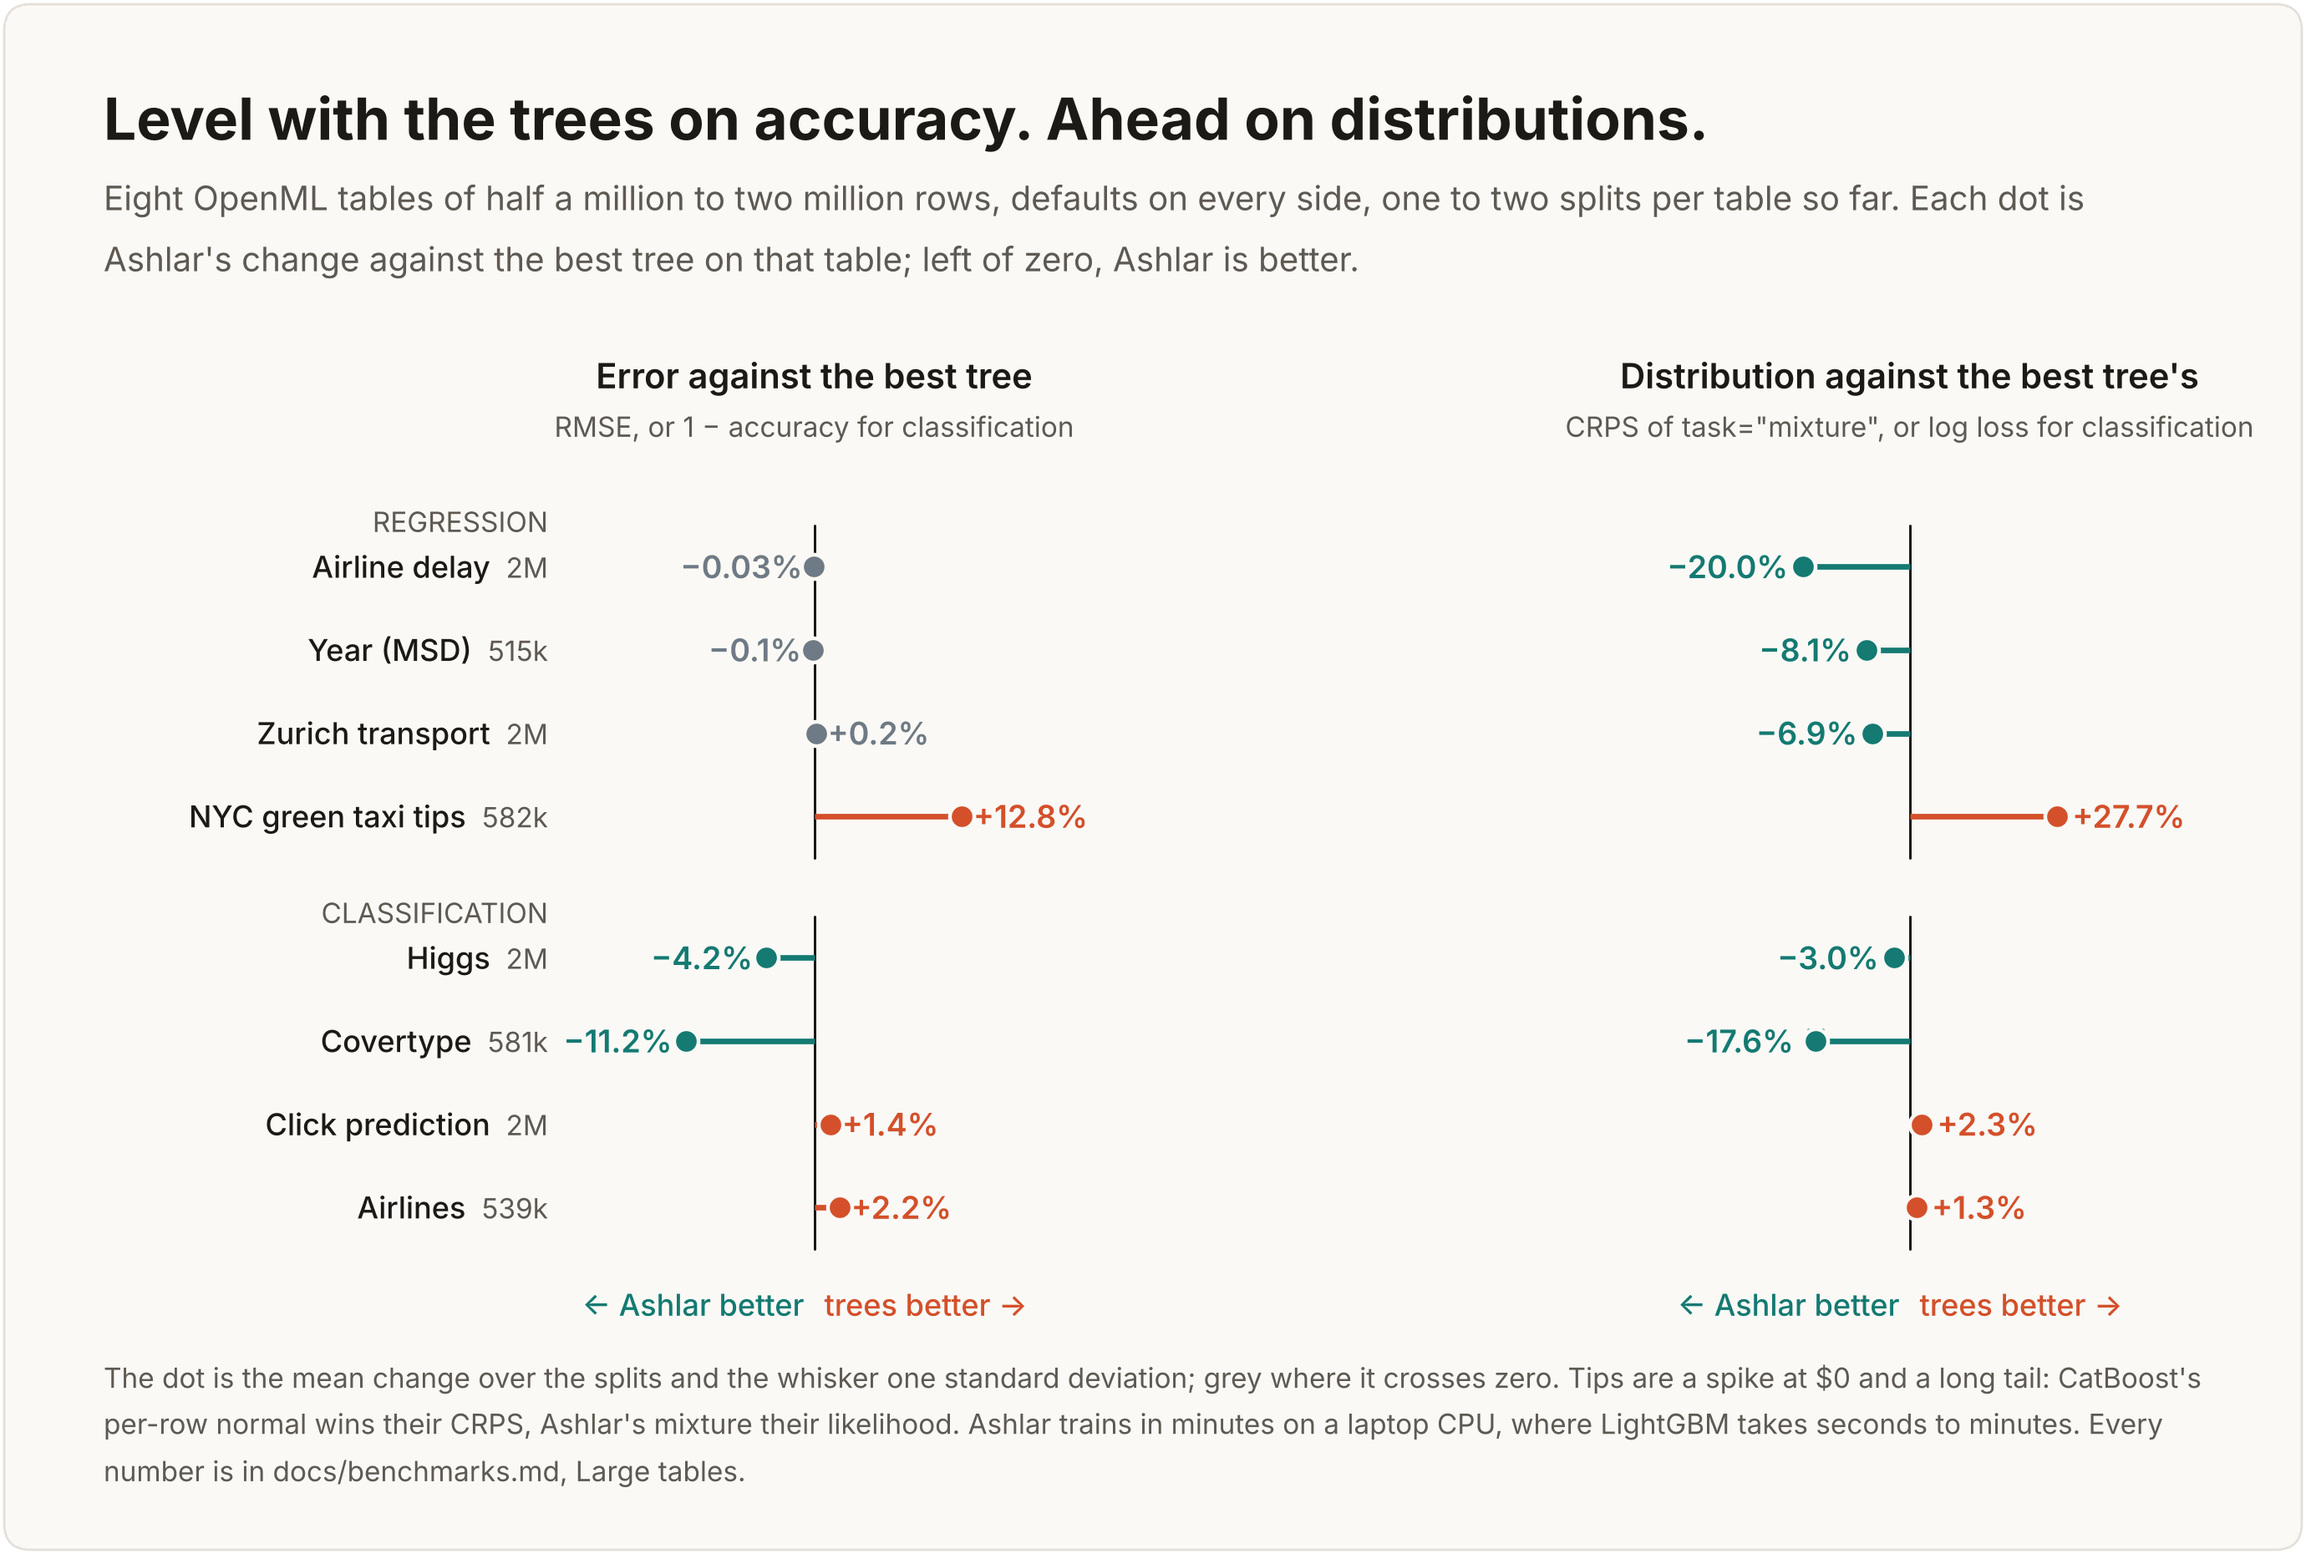
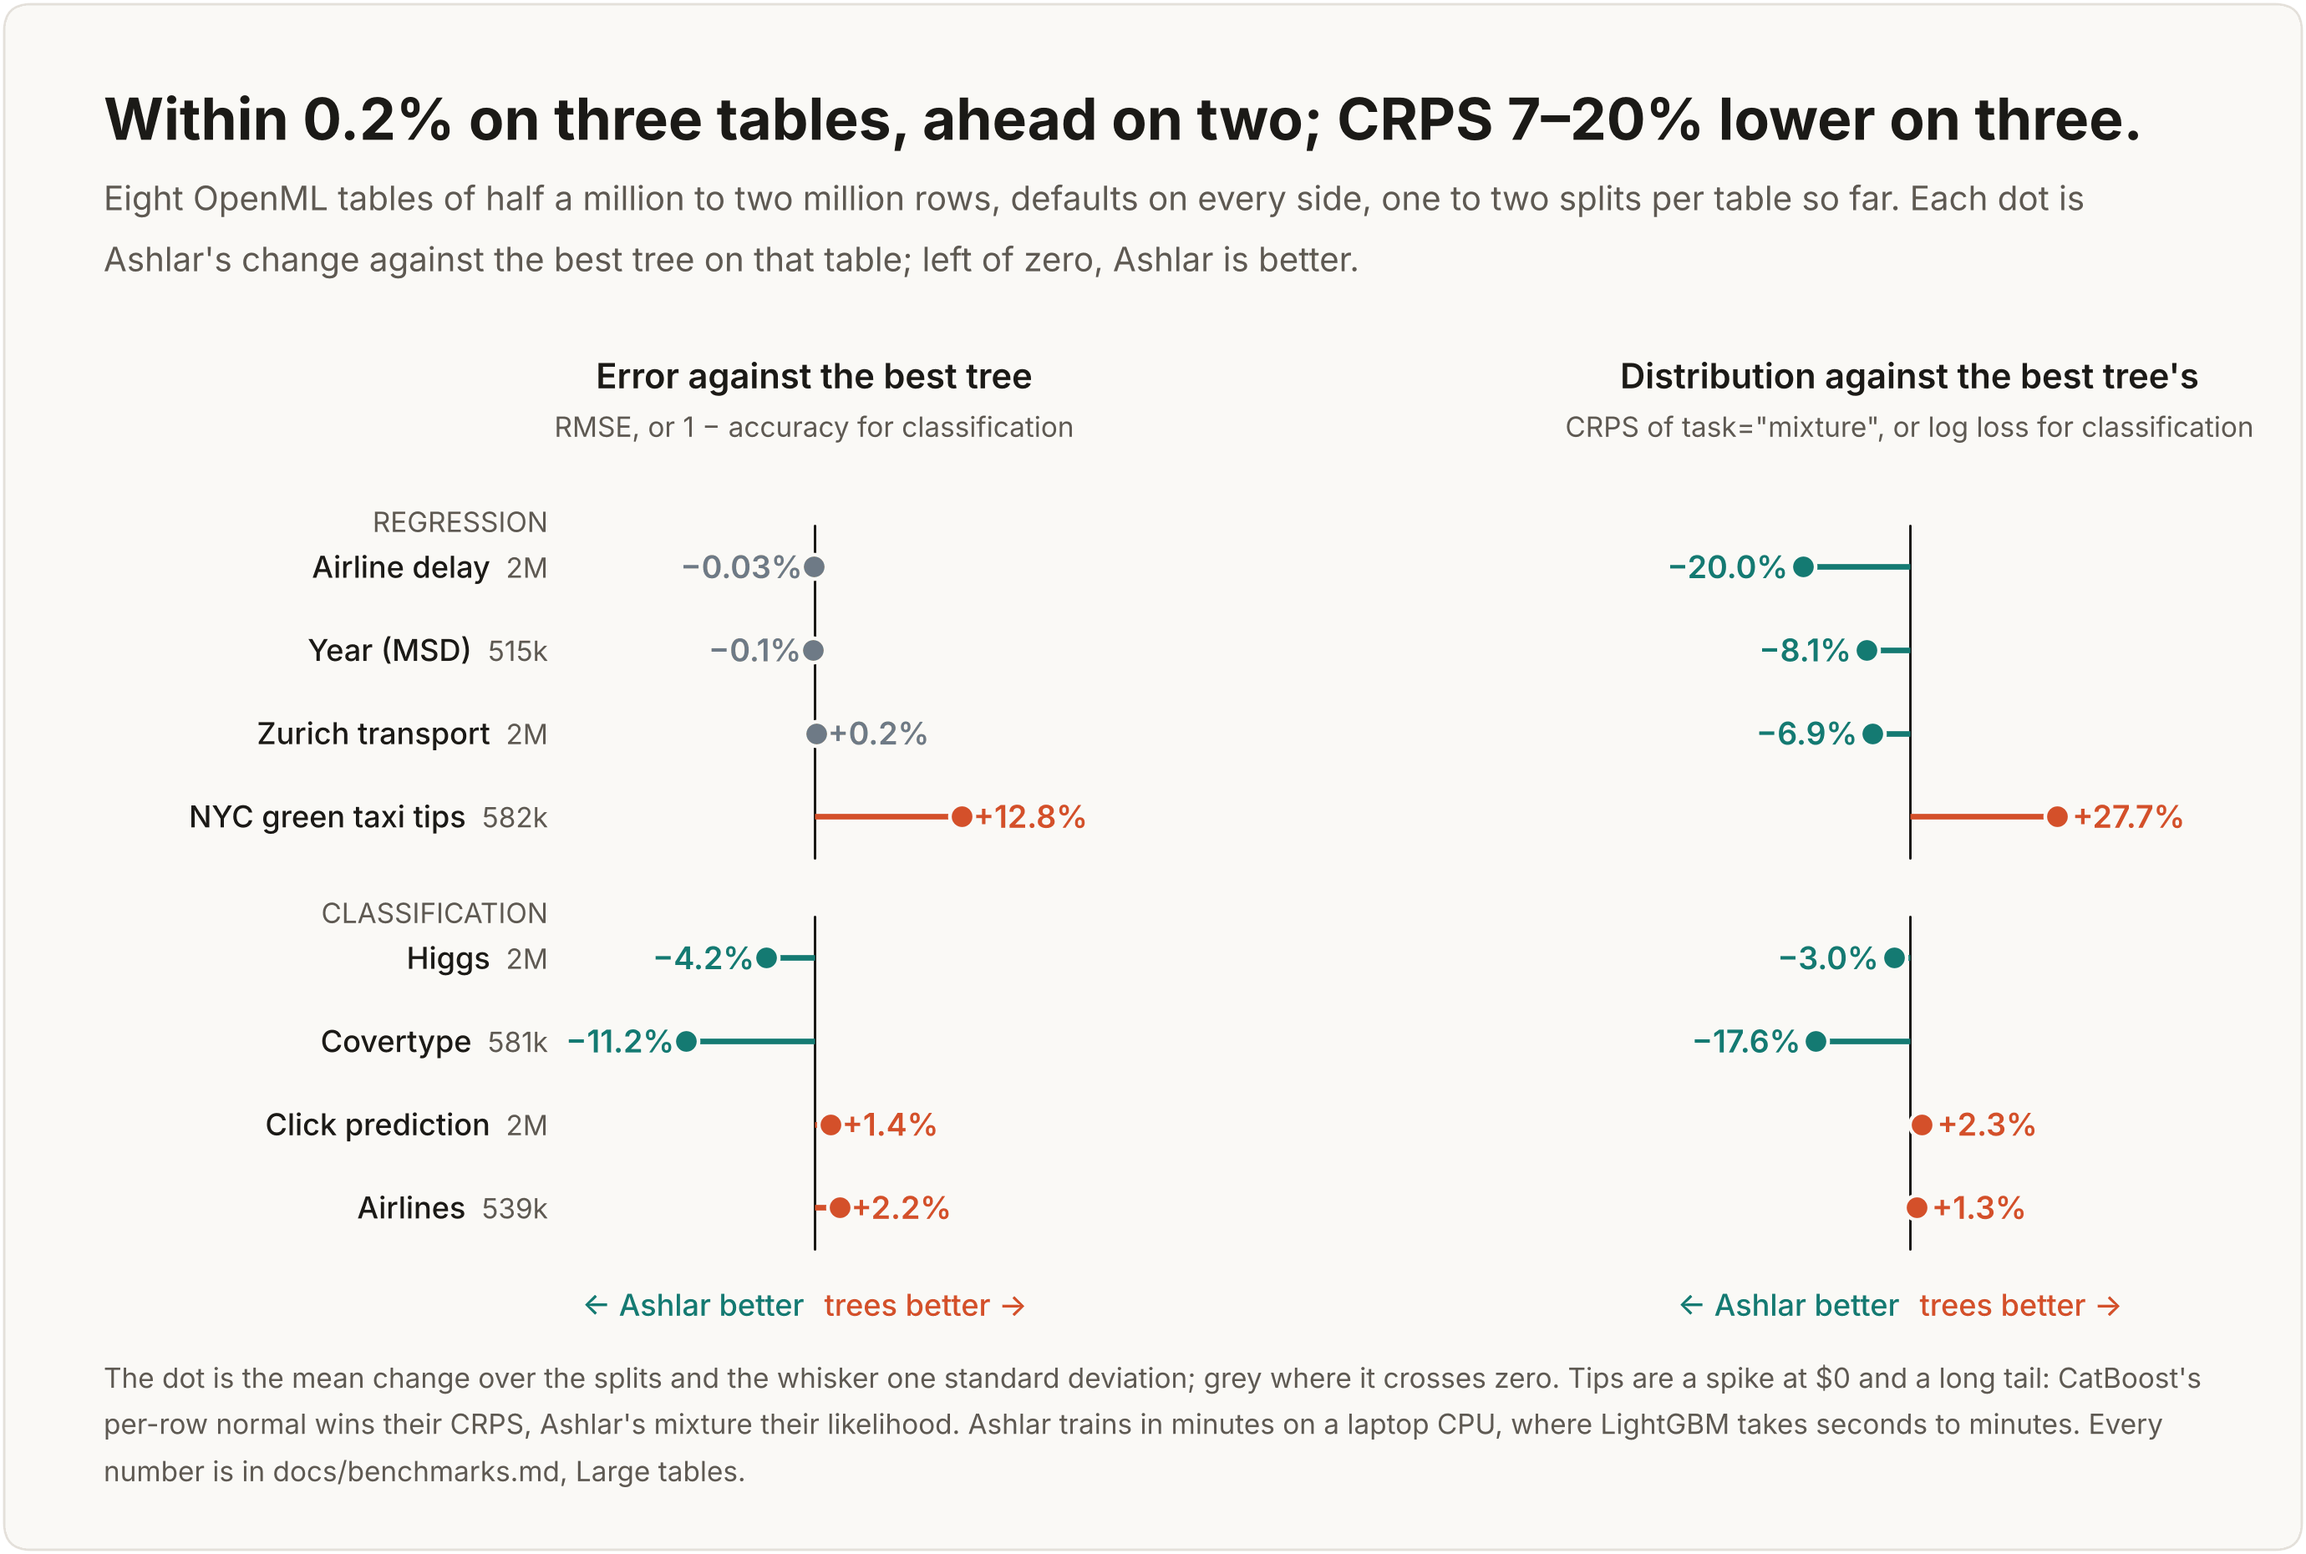
LightGBMLSS imports torch before LightGBM; the scoreboard's title says the numbers
On macOS torch and LightGBM each bring a libomp; with both loaded, LightGBMLSS
segfaulted on the Mac the first time torch ran a multi-threaded op inside
LightGBM's objective. Importing torch first lets LightGBM reuse torch's
runtime. The install line in the comment now lists the tested pins.

The scoreboard's card title is computed from the results, so it no longer
repeats the README heading above it, and a whisker shorter than the dot's
radius is left out instead of showing only its caps.

Claude-Session: https://claude.ai/code/session_01Ut1RAi6KqssJKqes3JJ4ZU

Changed region(s): [[0.0312, 0.0624, 0.9348, 0.0935], [0.7478, 0.6548, 0.779, 0.686], [0.2493, 0.6548, 0.2804, 0.686]]

diff --git a/examples/readme/scoreboard.py b/examples/readme/scoreboard.py
@@ -45,6 +45,7 @@ GROUPS = (  # (group, ((table, name on the figure, rows), ...)), regression firs
                         ("click", "Click prediction", "2M"), ("airlines", "Airlines", "539k"))),
 )
 TIE = 0.5  # percent: with one split, a smaller change is drawn as a tie
+DOT_RADIUS = (110 ** 0.5 / 2 + 1.6) / 72  # inches: the dot (s=110) and its edge
 
 
 def load(path: Path = RESULTS) -> list[dict]:
@@ -119,15 +120,21 @@ def _cell(ax, y, item, pad):
     lo, hi = mean - sd, mean + sd
     color = k.SLATE if tied(item) else k.TEAL if mean < 0 else k.CLAY
     ax.plot([0, mean], [y, y], color=color, lw=2.4, solid_capstyle="butt", zorder=3)
-    if len(item["seeds"]) > 1 and sd > 0:
+    # A whisker shorter than the dot's radius would only show its caps at the dot's edge: leave it out.
+    inches = ax.get_position().width * ax.figure.get_figwidth()
+    radius = DOT_RADIUS * (ax.get_xlim()[1] - ax.get_xlim()[0]) / inches
+    whisker = len(item["seeds"]) > 1 and sd > radius
+    if whisker:
         ax.plot([lo, hi], [y, y], color=color, lw=1.3, zorder=4)
         for end in (lo, hi):
             ax.plot([end, end], [y - 0.13, y + 0.13], color=color, lw=1.3, zorder=4)
     ax.scatter([mean], [y], s=110, color=color, edgecolor=k.CARD, linewidth=1.6, zorder=5)
+    if not whisker:
+        lo = hi = mean
     if mean <= 0:
-        k.value(ax, min(lo, mean) - pad, y, _percent(mean), color, ha="right")
+        k.value(ax, lo - pad, y, _percent(mean), color, ha="right")
     else:
-        k.value(ax, max(hi, mean) + pad, y, _percent(mean), color, ha="left")
+        k.value(ax, hi + pad, y, _percent(mean), color, ha="left")
 
 
 def _span(items, floor):
@@ -135,21 +142,52 @@ def _span(items, floor):
     return reach * 1.7
 
 
+WORDS = {1: "one", 2: "two", 3: "three", 4: "four", 5: "five", 6: "six", 7: "seven", 8: "eight"}
+
+
+def headline(error, distribution) -> str:
+    """The card's title, in numbers: the README's heading above the figure says the claim in words.
+
+    The tables whose error is within half a percent of the best tree's, the ones ahead by more, and the
+    range of the CRPS gain on the regression tables where the mixture is ahead.
+    """
+    level = [abs(v["mean"]) for v in error.values() if abs(v["mean"]) < TIE]
+    ahead = [v for v in error.values() if v["mean"] <= -TIE]
+    regression = {table for table, _, _ in GROUPS[0][1]}
+    gains = sorted(-v["mean"] for t, v in distribution.items() if t in regression and v["mean"] <= -TIE)
+    parts = []
+    if level:
+        parts.append(f"Within {np.ceil(max(level) * 10 - 1e-9) / 10:g}% on {WORDS[len(level)]} tables")
+    if ahead:
+        parts.append(f"ahead on {WORDS[len(ahead)]}" if level else f"Ahead on {WORDS[len(ahead)]} tables")
+    first = ", ".join(parts) or "Against the best tree on each table"
+    if not gains:
+        return first + "."
+    low, high = round(gains[0]), round(gains[-1])
+    ranges = [f"{high}%"] if low == high else [f"{low}% to {high}%", f"{low}–{high}%"]
+    fonts = k.setup()
+    room = k.WIDTH - 2 * 0.62 - 0.2  # the card's text width, less a little air
+    for span in ranges:
+        text = f"{first}; CRPS {span} lower on {WORDS[len(gains)]}."
+        if k.text_width(text, fonts.title) <= room:
+            return text
+    return first + "."
+
+
 def splits_text(items) -> str:
     counts = sorted({len(item["seeds"]) for item in items})
-    words = {1: "one", 2: "two", 3: "three"}
     if counts == [1]:
         return "one split per table so far"
     if len(counts) == 1:
-        return f"{words.get(counts[0], counts[0])} splits per table"
-    return f"{words.get(counts[0], counts[0])} to {words.get(counts[-1], counts[-1])} splits per table so far"
+        return f"{WORDS.get(counts[0], counts[0])} splits per table"
+    return f"{WORDS.get(counts[0], counts[0])} to {WORDS.get(counts[-1], counts[-1])} splits per table so far"
 
 
 def draw() -> None:
     rows = load()
     error, distribution = results(rows)
     fig = k.card(
-        "Level with the trees on accuracy. Ahead on distributions.",
+        headline(error, distribution),
         "Eight OpenML tables of half a million to two million rows, defaults on every side, "
         f"{splits_text(list(error.values()) + list(distribution.values()))}. Each dot is Ashlar's change "
         "against the best tree on that table; left of zero, Ashlar is better.",
@@ -173,11 +211,11 @@ def draw() -> None:
     )
     for ax, items, title, subtitle, pad, floor in panels:
         span = _span(list(items.values()), floor)
+        ax.set_xlim(-span, span)
+        ax.set_ylim(bottom - 0.45, -1.2)
         for table, item in items.items():
             _cell(ax, positions[table], item, pad * span / 20)
         k.style(ax, frame="")
-        ax.set_xlim(-span, span)
-        ax.set_ylim(bottom - 0.45, -1.2)
         for _, tables in GROUPS:
             ax.plot([0, 0], [positions[tables[0][0]] - 0.5, positions[tables[-1][0]] + 0.5], color=k.INK, lw=1.1,
                     zorder=2)

diff --git a/examples/benchmark_large.py b/examples/benchmark_large.py
@@ -406,9 +406,15 @@ def run_catboost_uncertainty(table, seed):
 # gradient. Both pin older torch, NumPy, pandas, and scikit-learn than the
 # rest of this script, so they run from their own environment:
 #
-#   python -m venv lss && lss/bin/pip install lightgbmlss==0.6.1 ngboost==0.5.11 lightgbm==4.7.0 pyarrow
+#   python -m venv lss && lss/bin/pip install lightgbmlss==0.6.1 ngboost==0.5.11 lightgbm==4.7.0 \
+#       torch==2.9.1 pyro-ppl==1.9.2 numpy==2.3.5 pandas==2.2.3 scipy==1.16.3 scikit-learn==1.7.2 pyarrow
 #   GBM_THREADS=6 lss/bin/python examples/benchmark_large.py --tables airlines_delay \
 #       --models lightgbmlss_gaussian lightgbmlss_studentt lightgbmlss_mixture ngboost --seeds 0 1 2
+#
+# On macOS, torch and LightGBM each bring an OpenMP runtime (libomp). With
+# both loaded, LightGBMLSS segfaults the first time torch runs an operation on
+# several threads inside LightGBM's objective, so ``run_lightgbmlss`` imports
+# torch first: LightGBM then uses the libomp that torch already loaded.
 #
 # The target is standardized with the fitting rows' mean and spread, and each
 # family starts from its unconditional fit (``initialize=True``); otherwise
@@ -485,8 +491,9 @@ def _save_predictions(table, name, seed, **arrays):
 
 def run_lightgbmlss(family, table, seed):
     """LightGBMLSS with a Gaussian, a Student-t, or a mixture of Gaussians, early-stopped like the trees."""
+    import torch  # before LightGBM: on macOS it then reuses torch's libomp instead of loading a second one
+
     import lightgbm
-    import torch
     from lightgbmlss.distributions.Gaussian import Gaussian
     from lightgbmlss.distributions.Mixture import Mixture
     from lightgbmlss.distributions.StudentT import StudentT
